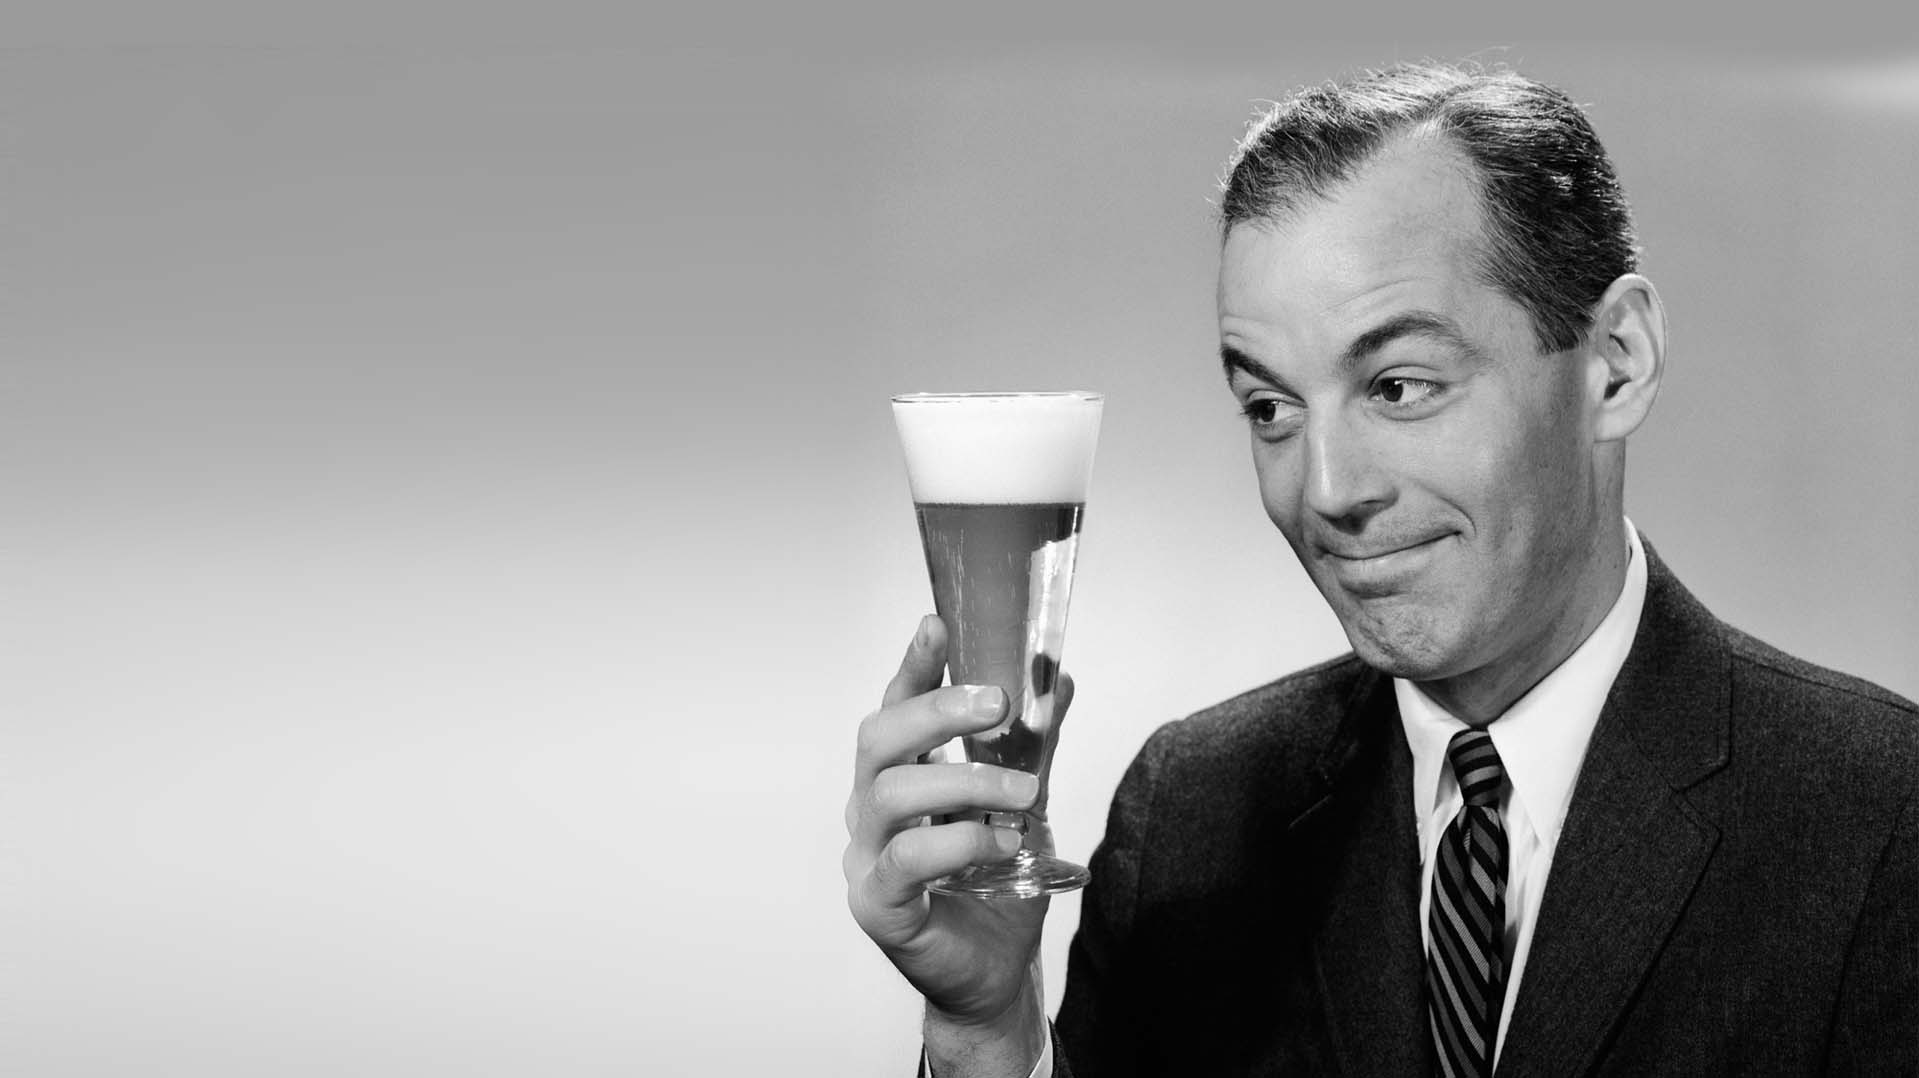
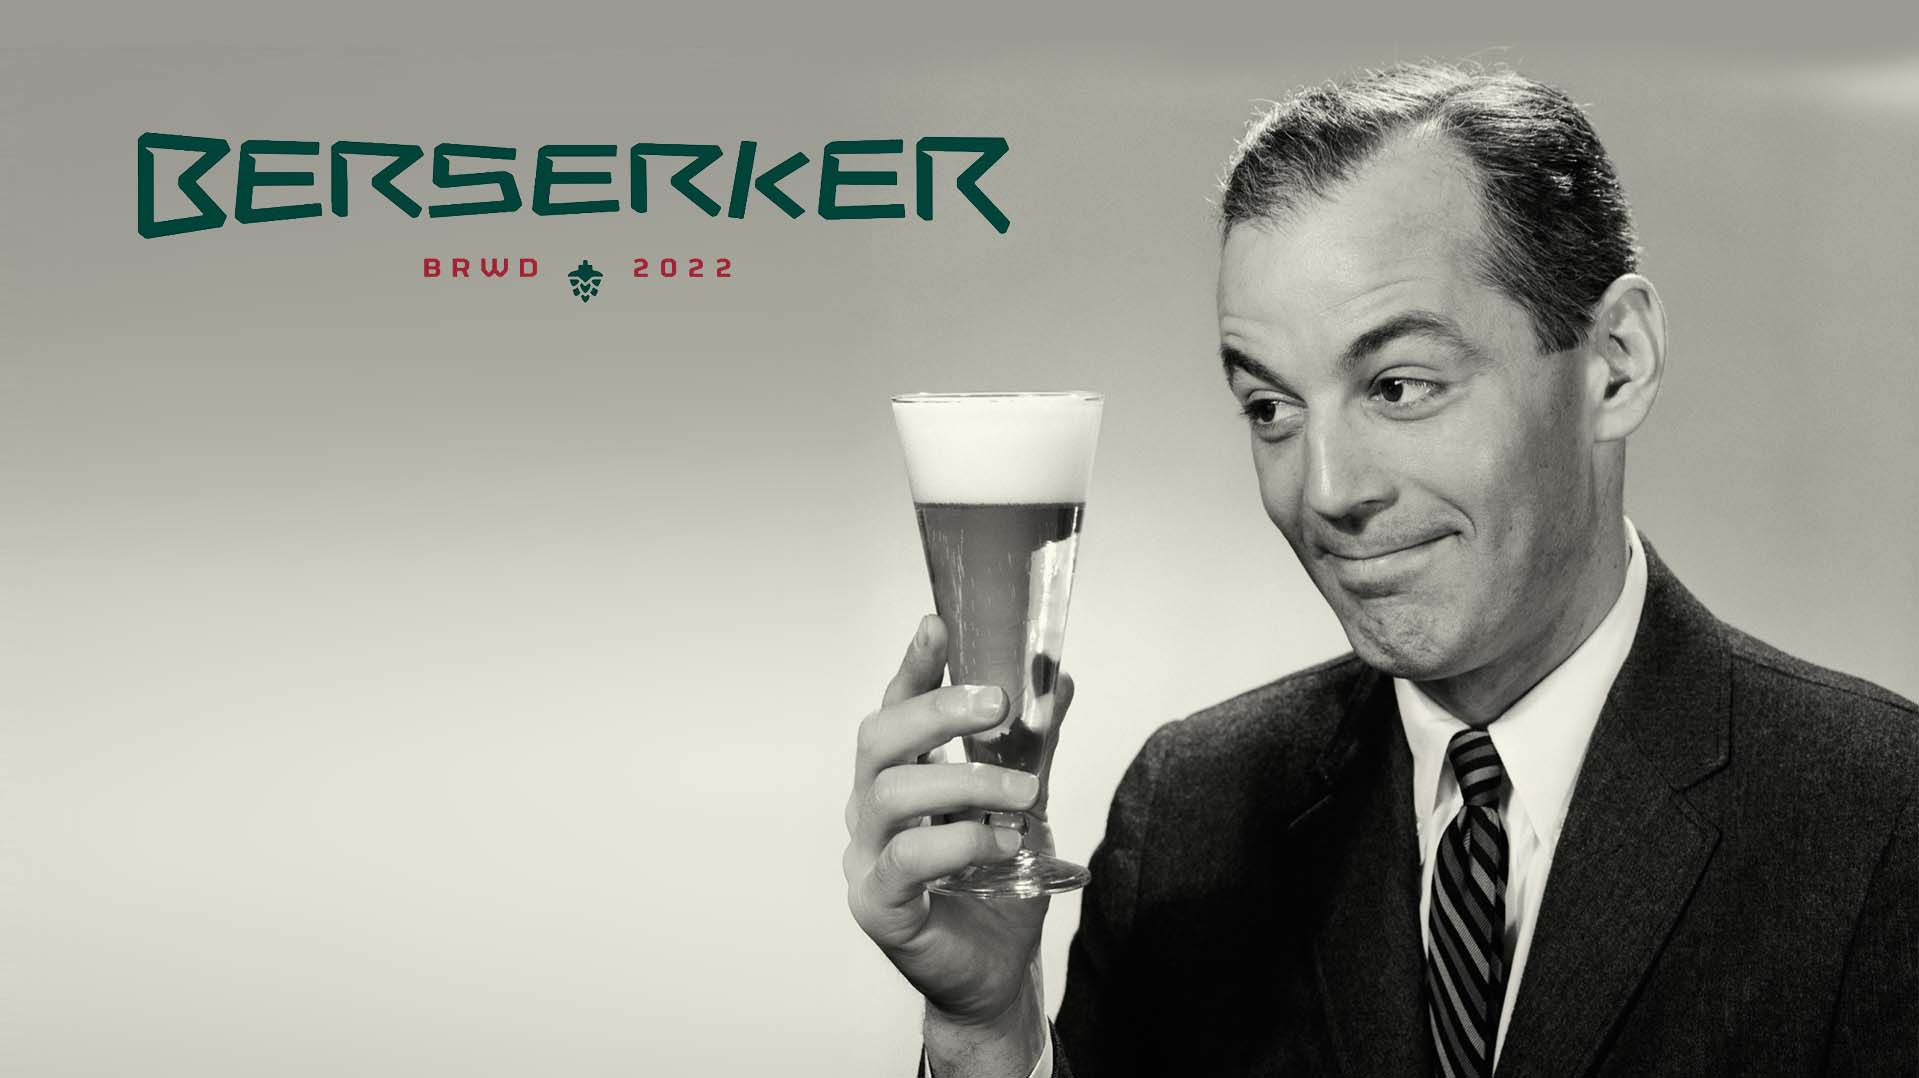
basic blog finished

Changed region(s): [[0.0615, 0.1224, 0.5227, 0.2755]]

diff --git a/app/assets/stylesheets/application.scss b/app/assets/stylesheets/application.scss
@@ -15,7 +15,42 @@
  */
  @import "bootstrap";
  @import "bootstrap.min.css";
- 
+ @import url('https://fonts.googleapis.com/css2?family=Oswald:wght@200&family=Quattrocento&family=Road+Rage&family=Staatliches&display=swap');
+h1 {
+  font-family: 'Oswald', sans-serif;
+}
+h2 {
+  font-family: 'Oswald', sans-serif;
+}
+
+p {
+  font-family: 'Quattrocento', serif;
+}
+
+.featurette-divider {
+  margin-top: 16px;
+}
+
+/* unvisited link */
+a:link {
+  color: rgb(44, 44, 44);
+}
+
+/* visited link */
+a:visited {
+  color: rgb(107, 107, 107);
+}
+
+/* mouse over link */
+a:hover {
+  color: rgb(180, 180, 180);
+}
+
+/* selected link */
+a:active {
+  color: yellow;
+}
+
  .bd-placeholder-img {
    font-size: 1.125rem;
    text-anchor: middle;

diff --git a/app/assets/stylesheets/active_admin.scss b/app/assets/stylesheets/active_admin.scss
@@ -11,6 +11,7 @@
 @import "active_admin/mixins";
 @import "active_admin/base";
 @import "wigu/active_admin_theme";
+@import 'active_admin/simplemde';
 
 // Overriding any non-variable Sass must be done after the fact.
 // For example, to change the default status-tag color:

diff --git a/app/assets/javascripts/active_admin.js b/app/assets/javascripts/active_admin.js
@@ -1,1 +1,3 @@
 //= require active_admin/base
+//= require active_admin/simplemde/simplemde
+//= require active_admin/simplemde_editor_input

diff --git a/db/schema.rb b/db/schema.rb
@@ -10,7 +10,7 @@
 #
 # It's strongly recommended that you check this file into your version control system.
 
-ActiveRecord::Schema.define(version: 2022_02_15_083737) do
+ActiveRecord::Schema.define(version: 2022_02_16_085827) do
 
   # These are extensions that must be enabled in order to support this database
   enable_extension "plpgsql"
@@ -27,6 +27,34 @@ ActiveRecord::Schema.define(version: 2022_02_15_083737) do
     t.index ["author_type", "author_id"], name: "index_active_admin_comments_on_author"
     t.index ["namespace"], name: "index_active_admin_comments_on_namespace"
     t.index ["resource_type", "resource_id"], name: "index_active_admin_comments_on_resource"
+  end
+
+  create_table "active_storage_attachments", force: :cascade do |t|
+    t.string "name", null: false
+    t.string "record_type", null: false
+    t.bigint "record_id", null: false
+    t.bigint "blob_id", null: false
+    t.datetime "created_at", null: false
+    t.index ["blob_id"], name: "index_active_storage_attachments_on_blob_id"
+    t.index ["record_type", "record_id", "name", "blob_id"], name: "index_active_storage_attachments_uniqueness", unique: true
+  end
+
+  create_table "active_storage_blobs", force: :cascade do |t|
+    t.string "key", null: false
+    t.string "filename", null: false
+    t.string "content_type"
+    t.text "metadata"
+    t.string "service_name", null: false
+    t.bigint "byte_size", null: false
+    t.string "checksum", null: false
+    t.datetime "created_at", null: false
+    t.index ["key"], name: "index_active_storage_blobs_on_key", unique: true
+  end
+
+  create_table "active_storage_variant_records", force: :cascade do |t|
+    t.bigint "blob_id", null: false
+    t.string "variation_digest", null: false
+    t.index ["blob_id", "variation_digest"], name: "index_active_storage_variant_records_uniqueness", unique: true
   end
 
   create_table "posts", force: :cascade do |t|
@@ -49,4 +77,6 @@ ActiveRecord::Schema.define(version: 2022_02_15_083737) do
     t.index ["reset_password_token"], name: "index_users_on_reset_password_token", unique: true
   end
 
+  add_foreign_key "active_storage_attachments", "active_storage_blobs", column: "blob_id"
+  add_foreign_key "active_storage_variant_records", "active_storage_blobs", column: "blob_id"
 end

diff --git a/db/migrate/20220216085827_create_active_storage_tables.active_storage.rb b/db/migrate/20220216085827_create_active_storage_tables.active_storage.rb
@@ -1,0 +1,36 @@
+# This migration comes from active_storage (originally 20170806125915)
+class CreateActiveStorageTables < ActiveRecord::Migration[5.2]
+  def change
+    create_table :active_storage_blobs do |t|
+      t.string   :key,          null: false
+      t.string   :filename,     null: false
+      t.string   :content_type
+      t.text     :metadata
+      t.string   :service_name, null: false
+      t.bigint   :byte_size,    null: false
+      t.string   :checksum,     null: false
+      t.datetime :created_at,   null: false
+
+      t.index [ :key ], unique: true
+    end
+
+    create_table :active_storage_attachments do |t|
+      t.string     :name,     null: false
+      t.references :record,   null: false, polymorphic: true, index: false
+      t.references :blob,     null: false
+
+      t.datetime :created_at, null: false
+
+      t.index [ :record_type, :record_id, :name, :blob_id ], name: "index_active_storage_attachments_uniqueness", unique: true
+      t.foreign_key :active_storage_blobs, column: :blob_id
+    end
+
+    create_table :active_storage_variant_records do |t|
+      t.belongs_to :blob, null: false, index: false
+      t.string :variation_digest, null: false
+
+      t.index %i[ blob_id variation_digest ], name: "index_active_storage_variant_records_uniqueness", unique: true
+      t.foreign_key :active_storage_blobs, column: :blob_id
+    end
+  end
+end

diff --git a/app/admin/posts.rb b/app/admin/posts.rb
@@ -1,4 +1,20 @@
 ActiveAdmin.register Post do
-  permit_params :title, :content, :views
+  permit_params :title, :content, :image
 
+   form do |f| 
+     f.inputs 'Post' do 
+       f.input :title 
+       f.input :content, as: :simplemde_editor
+       f.label "Upload image:"
+       f.file_field :image 
+     end 
+     f.actions do 
+       f.action :submit, :as => :button 
+       f.action :cancel, :as => :link 
+     end 
+   end 
 end
+
+
+
+

diff --git a/app/controllers/posts_controller.rb b/app/controllers/posts_controller.rb
@@ -1,4 +1,5 @@
 class PostsController < ApplicationController
+
   def index
     @posts = Post.all.order(created_at: :desc)
   end
@@ -19,6 +20,6 @@ class PostsController < ApplicationController
   private
 
   def post_params
-    params.require(:post).permit(:title, :content)
+    params.require(:post).permit(:title, :content, :image)
   end
 end

diff --git a/config/initializers/active_admin.rb b/config/initializers/active_admin.rb
@@ -4,7 +4,7 @@ ActiveAdmin.setup do |config|
   # Set the title that is displayed on the main layout
   # for each of the active admin pages.
   #
-  config.site_title = "Bezerker Blog"
+  config.site_title = "Berserker Blog"
 
   # Set the link url for the title. For example, to take
   # users to your main site. Defaults to no link.

diff --git a/app/models/post.rb b/app/models/post.rb
@@ -1,4 +1,6 @@
 class Post < ApplicationRecord
   validates_presence_of :title
   validates_presence_of :content
+
+  has_one_attached :image
 end

diff --git a/app/models/article_image.rb b/app/models/article_image.rb
@@ -1,0 +1,3 @@
+class ArticleImage < ApplicationRecord
+  has_one_attached :image, :dependant => :destroy
+end
